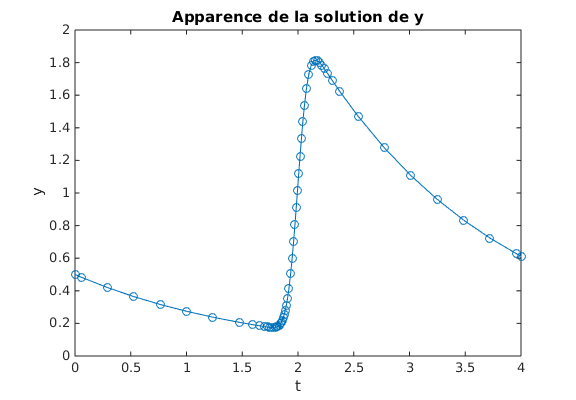
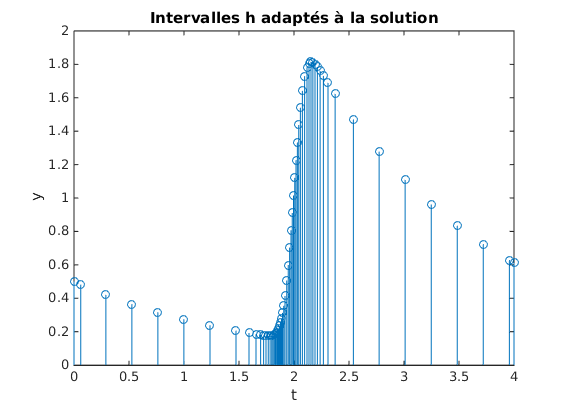
GRAND FINAL

diff --git a/main.tex b/main.tex
@@ -717,7 +717,7 @@ On utilise le solveur \texttt{ode23()} pour approcher la solution, ce qui donne:
 \vspace{2cm}
 
 
-En ajoutant l'argument \texttt{odeset(’RelTol’, 1e-4)} à la commande \texttt{ode23()},\\ on affiche les points réellement calculés sur le graphique:
+En ajoutant l'argument \texttt{odeset(’RelTol’, 1e-4)} à la commande \texttt{ode23()},\\ on force l'utilisation d'un pas de temps adaptatif pour un seuil de tolérance de $10^{-4}$:
 \vspace{3cm}
 
 Cette visualisation des intervalles de temps $h$ automatiquement calculés par le solveur, dit \textit{à pas de temps adaptatif}, montre clairement que plus la solution du problème est raide, plus h va diminuer si l'on veut rester en dessous d'un seuil d'erreur choisi ($10^{-4}$ précisé ici dans cet exemple).\\
@@ -791,12 +791,59 @@ Ou même, pour y voir plus clair, avec un pas de 20 pour $\mu \in [0,1000]$:\\
 \end{tabular}
 \\
 \begin{tabular}{cc}
-\subfloat[Chronique de $y$ avec \texttt{ode23s()}.]{\includegraphics[scale=0.5]{exo6_3_1.png}}
+\subfloat[Chronique de $y$ avec \texttt{ode23s()}.]{\includegraphics[scale=0.4]{exo6_3_1.png}}
 &
-\subfloat[Chronique de $y$ avec \texttt{ode45()}.]{\includegraphics[scale=0.5]{exo6_3_ode45_9.png}}
+\subfloat[Chronique de $y$ avec \texttt{ode45()}.]{\includegraphics[scale=0.4]{exo6_3_ode45_9.png}}
 \\
 \end{tabular}
 \end{table}
+
+\newpage
+\section{Annexe: MatLab, critique}
+Tentons de rassembler ici quelques informations rassemblées pendant notre étude \textit{objective} sur MatLab:\\
+\begin{itemize}
+\item Nous avons réalisé les simulations de ce projet sur un ordinateur équipé d'un processeur Intel Xeon$^{(R)}$ E3-1246 v3, c'est un processeur quadri-coeur avec hyperthreading (8 coeurs virtuels) cadencés chacun à 3,50 GHz, et équipés d'un Turbo-boost à 3,9 GHz. Il supporte une bande passante de 26 Go/s. Ce qui, sans être exceptionnel, est plutôt confortable en 2016.
+\item L'ordinateur en question est également équipé de 8 Go de RAM, et une partition de Swap de 4 Go (ce qui n'est pas assez, mais bref).
+\item le système à vide (Fedora 22) utilise en moyenne 5\% du CPU et 18\% de RAM.\\
+\end{itemize}
+
+On se propose d'étudier les performances utilisées en fonction des paramètres choisis dans la simulation de l'exercice 6, qui demande un temps de calcul de plusieurs dizaines de minutes.\\
+
+\subsection{Parallélisation des tâches}
+La première remarque qu'on peut faire est que, hormis certaines fonctions d'algèbre \textit{(fft, mldivide, eig, svd, sort)}, Matlab gère mal le multi-coeur: En effet, le logiciel calcule tout avec un CPU et laisse les autres à zéro:
+\begin{figure}[h]
+\centering
+\includegraphics[scale=0.5]{CPU.png}
+\end{figure}
+
+\subsection{Erreurs internes de gestion de la mémoire}
+Lors de calculs de grands nombres, on aboutit systématiquement non pas à une erreur indiquant que l'on dépasse une éventuelle capacité de calcul maximale, mais à une \textit{erreur de segmentation}. Matlab préfère donc le crash sans sauvegarde possible à toute autre alternative. \\Et cet incident n'est pas ponctuel: lorsqu'un algorithme ne passe pas, il ne passe pas, même après modification et remodification, nous forçant donc à une dizaine de kills du processus avant de trouver un programme stable.\\
+
+On pourrait penser que passé un certain tarif de licence, les développeurs auraient le tact de vérifier leur code. 
+\begin{table}[h]
+\begin{tabular}{cc}
+\subfloat[Un détail qui a son importance.]{\includegraphics[scale=0.4]{fail.png}}
+&
+\subfloat[Un autre détail qui a aussi son importance.]{\includegraphics[scale=0.7]{licence.png}}
+\\
+\end{tabular}
+\end{table}
+\newpage
+\subsection{Emballement et perte de contrôle}
+MatLab ne s'autorise pas de limites et ne détecte pas lorsqu'il ne peut pas. On peut assister à un emballement menant inconditionnellement au crash système:\\
+\begin{itemize}
+\item On lance un programme nécessitant de stocker beaucoup (trop) de données en mémoire
+\item MatLab accapare et sature la RAM et le swap (en plus du CPU occupé par l'exécution du script), ralentissant l'exécution des autres taches, comme la navigation ou la modification d'autres codes
+\item L'ordinateur saturé ne répond plus aux commandes: Impossible d'arrêter le script, il y a donc emballement jusqu'au stack overflow et crash système.
+\end{itemize}
+\begin{figure}[h]
+\centering
+\includegraphics[scale=0.4]{RA.jpg}
+\caption{La RAM déjà saturée, augmentation de la SWAP jusqu'au crash.}
+\end{figure}
+
+\textbf{Conclusion: Nous sommes venus utiliser MatLab sans préjugés, nous repartons avec. Python, avec toute sa lenteur, fonctionne sur tous les ordinateurs gratuitement et sans problèmes GRAVES.}
+
 
 \newpage
 \section{Annexe: Codes utilisés (Python 2.7 et MatLab)}
@@ -1136,10 +1183,10 @@ plot(t,y);
 \textbf{File: \texttt{ex5.m}}
 \begin{tiny}
 \begin{verbatim}
-plot(t,y);
 [t,y]=ode23(@ex5_dydt, [0 4], 0.5) ;
 options=odeset('RelTol', 1e-4) ;
 ode23(@ex_5dydt, [0,4], 0.5, options) ; 
+stem(t,y);
 \end{verbatim}
 \end{tiny}
 

diff --git a/ex5.m b/ex5.m
@@ -1,5 +1,5 @@
-plot(t,y);
 [t,y]=ode23(@ex5_dydt, [0 4], 0.5) ;
 options=odeset('RelTol', 1e-4) ;
-ode23(@dydt, [0,4], 0.5, options) ; %PB: je sais pas quoi mettre comme nom
+[t,y]=ode23(@ex5_dydt, [0,4], 0.5, options) ; %PB: je sais pas quoi mettre comme nom
 %d'axes !!!!!! ET je sais pas expliquer en détails !!
+stem(t,y)

diff --git a/exo6_3.m b/exo6_3.m
@@ -1,4 +1,4 @@
-for i =1:20:1000
+for i =1:1:1000
     [T,Y]=ode45(@(t,y)[y(2),(i*(1-y(1)*y(1))*y(2)-y(1))]', [0 6000],[1 1]);
     MU=i*ones(length(T),1);
     plot3(T,MU,Y(:,1));
